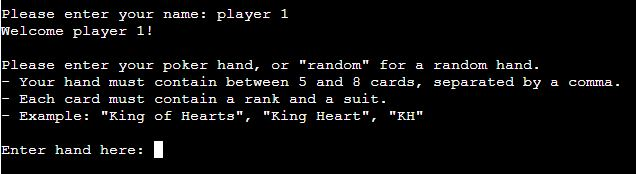
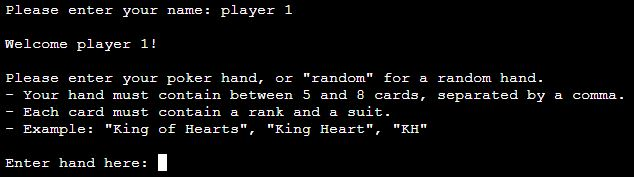
fix: extra blank line after hand input

diff --git a/run.py b/run.py
@@ -757,8 +757,6 @@ def get_hand_input(card_number):
         print('- Each card must contain a rank and a suit.')
         print('- Example: "King of Hearts", "King Heart", "KH"\n')
         hand_input = get_required_input('Hand', 'Enter hand here: ')
-        print('')
-
         # Creates a random hand if the user specifies it
         if contains_word(hand_input, 'random'):
             new_hand = Hand(player_name, [])

diff --git a/testing.md b/testing.md
@@ -273,12 +273,13 @@ Rules:
 
 **Test 1: Entering a name that meets all requirements**
 
-![User enters a valid name](assets/images/testing/player-name/valid-input.JPG)
+![User enters a valid name](assets/images/readme/hand-prompt.jpg)
+
+
+## Section 5: Hand Request with No Prior Players
 
 - Once a valid name is entered, the program will move on to getting that player's cards
-
-
-## Section 5: Hand Request
+- This
 
 ### Invalid Inputs
 
@@ -291,6 +292,9 @@ Rules:
 
 
 ## Section 7: Adding Another Hand
+
+
+## Section 8: Hand Request with Prior Players
 
 
 ## Section 8: Starting Another Round
